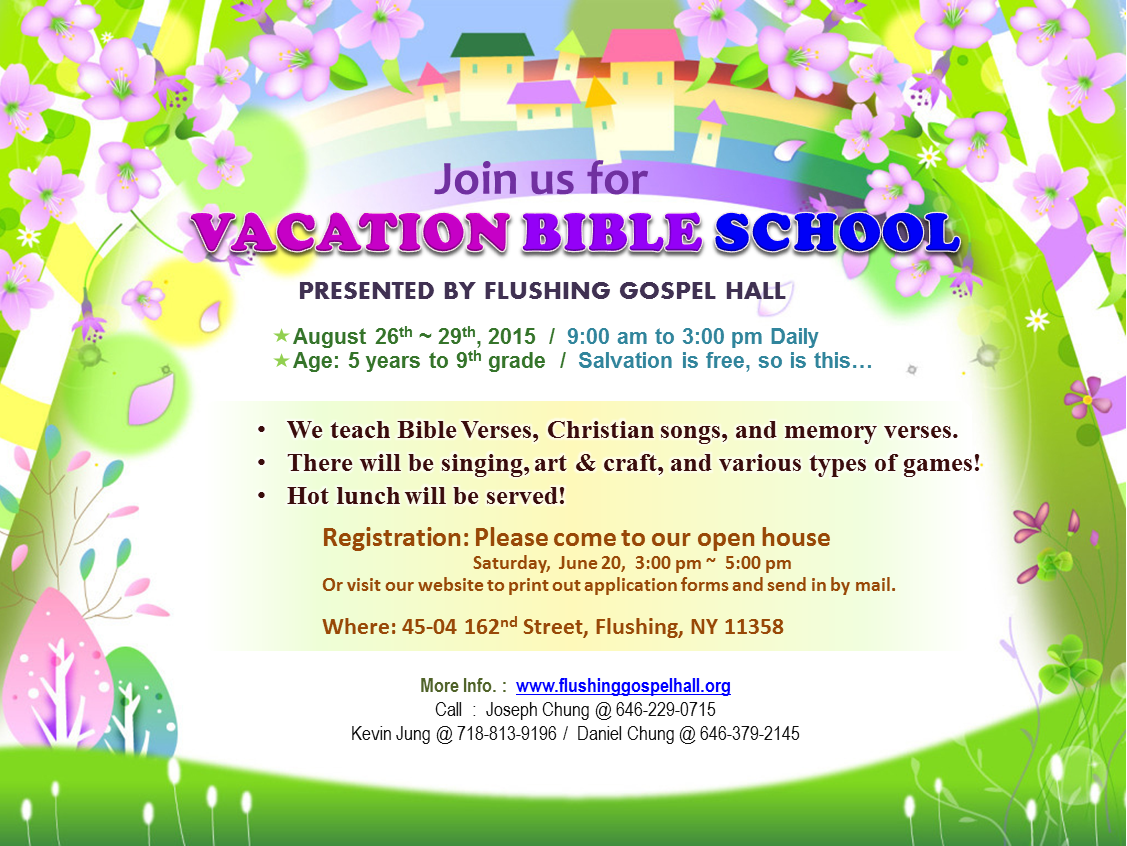
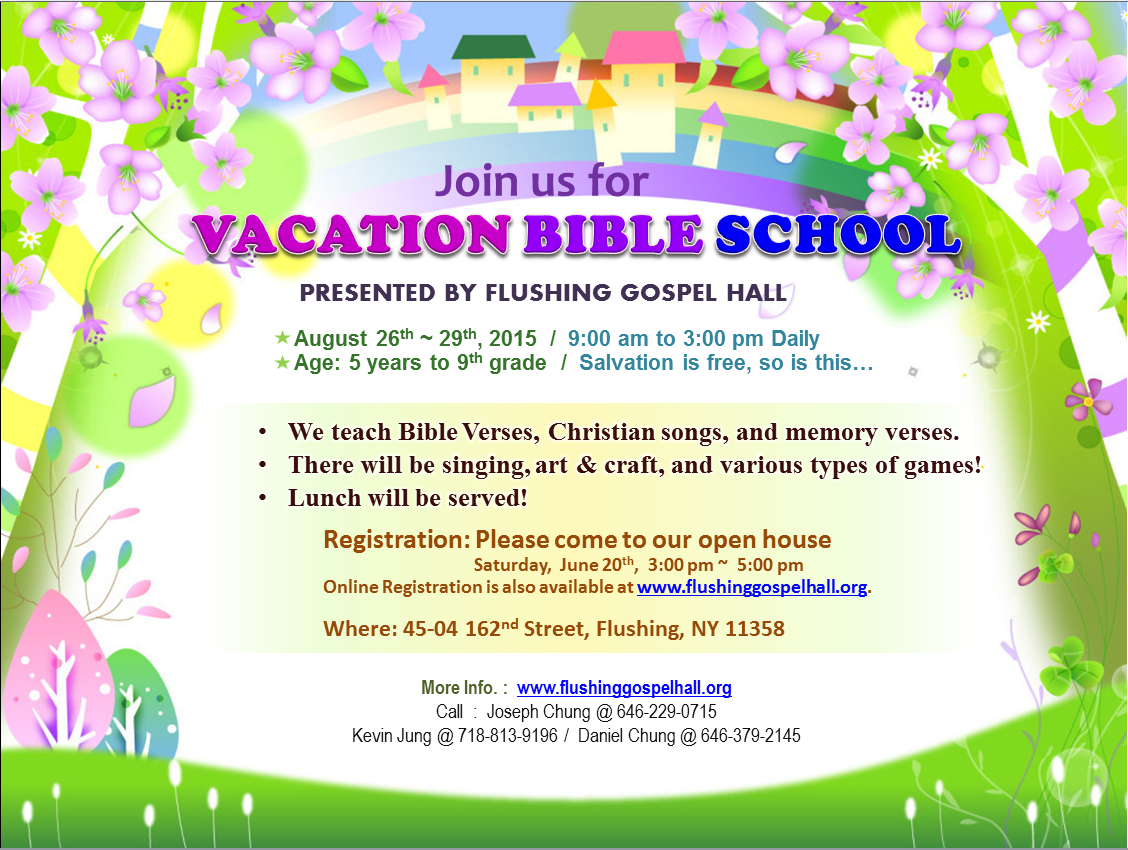
Build site at 2015-06-10 12:59:52 UTC

diff --git a/vbs_2015/index.html b/vbs_2015/index.html
@@ -289,7 +289,7 @@
 
 <p>In addition to the lessons, memory verses, and challenges provided by the instructors and speakers this summer, we hope to share the message of the Gospel with your children through crafts, and many other art activities. We want your children to be able to utilize their creativity and to actively think of what was taught through various hands-on activities and to have special memories of the time spent with us. All materials for the crafts and activities will be provided by us, and the only thing your children will need are their thinking-caps and enthusiasm to learn more from the Bible.</p>
 
-<h3>Snacks and Hot Lunch</h3>
+<h3>Snacks and Lunch</h3>
 
 <p>With an entire day spent through various lessons, activities and challenges, your children will no doubt be hungry before the day is over. We will happily provide both a hot meal and additional snacks and beverages to satisfy your children&#39;s appetites.</p>
 
